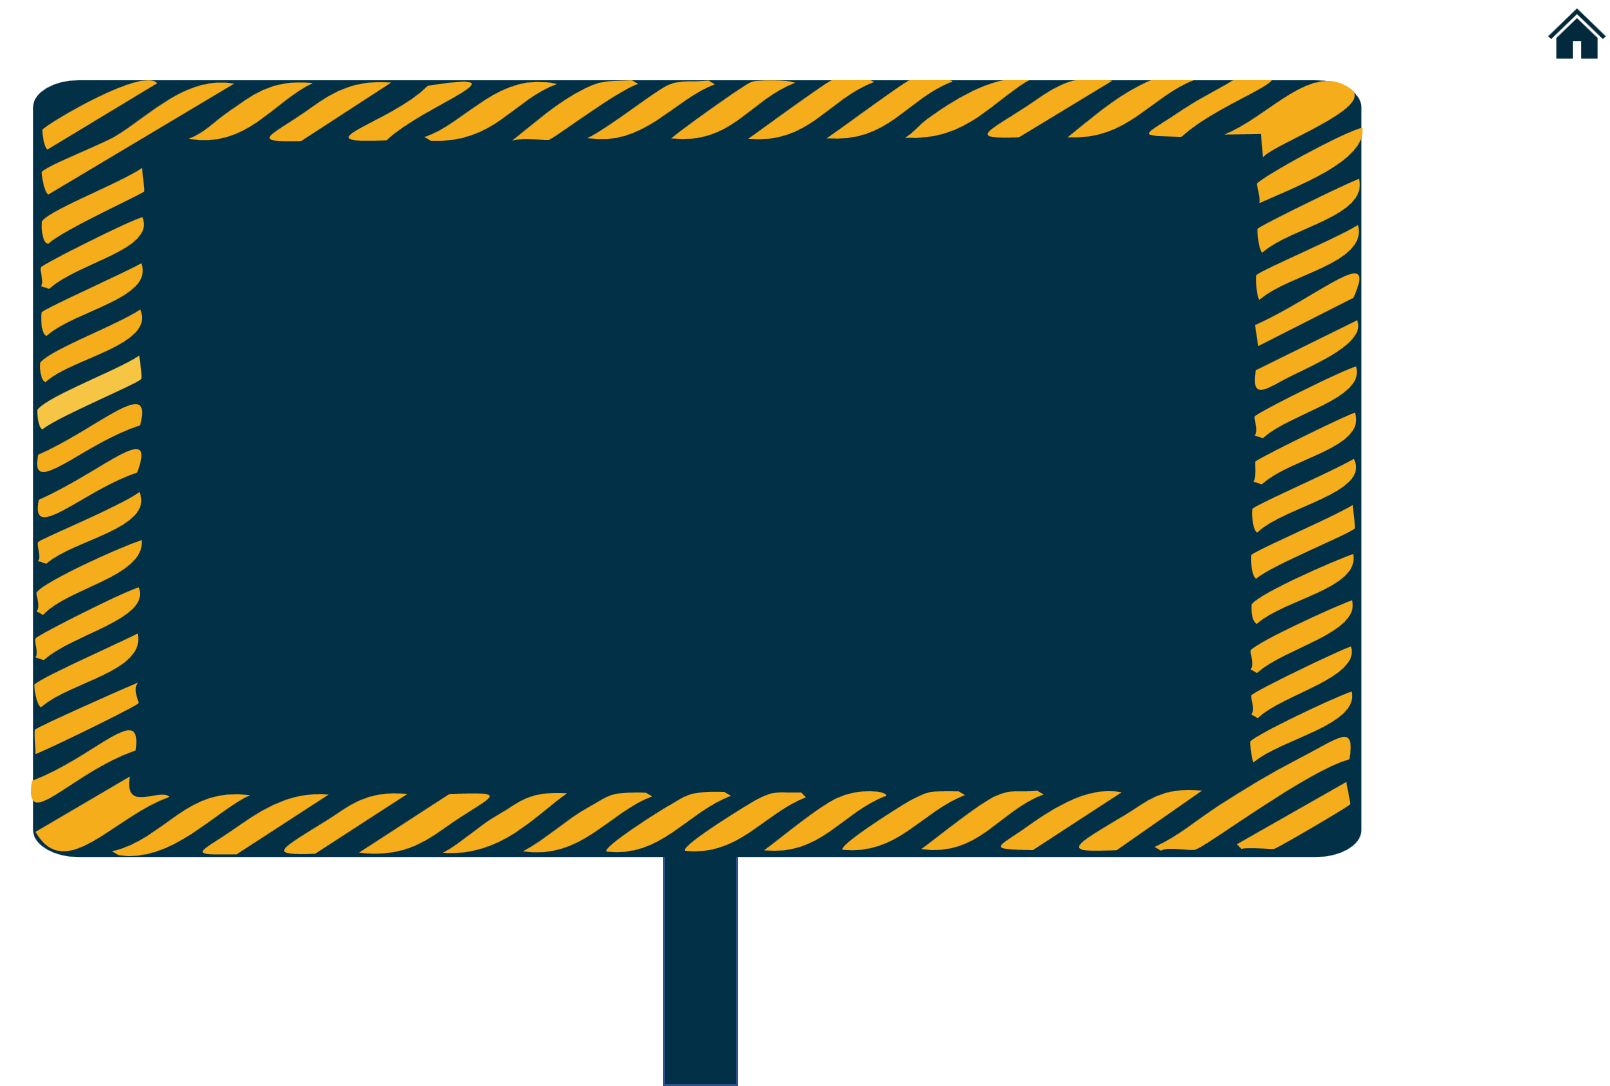
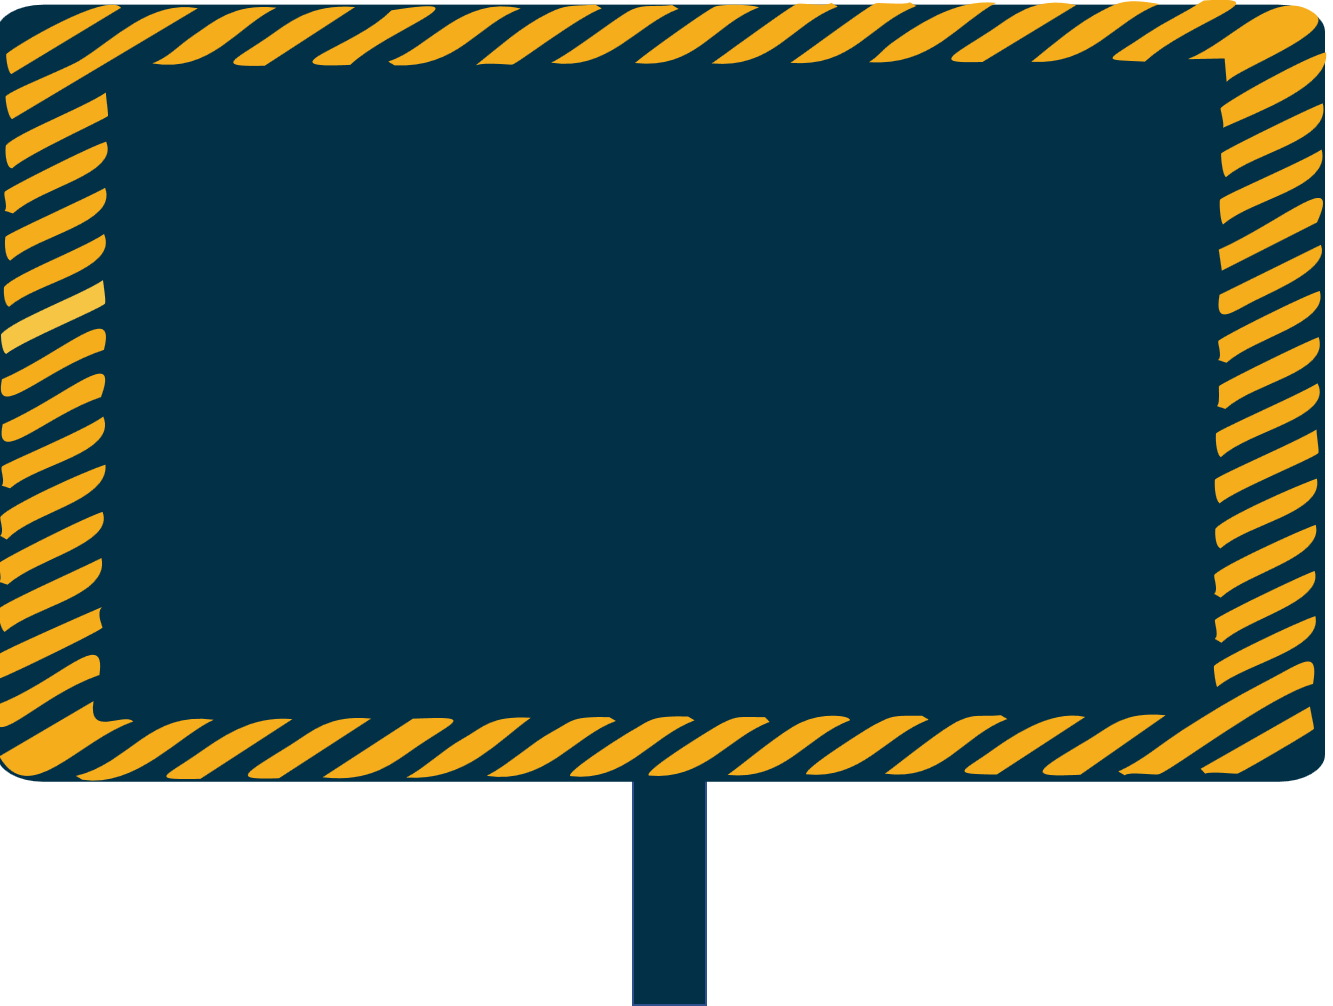
with start sign

diff --git a/src/components/StartSign.vue b/src/components/StartSign.vue
@@ -1,23 +1,33 @@
 <template>
     <div id="start-sign">
         <img class="start-sign-img" src="../../src/assets/media/StartSign.png" alt="startSign"/>
-        <div v-if="firstChosen">
+        <div class="text-container" v-if="firstChosen">
             <p>בחרת ב -</p>
-            <p style="partOfLomda">{{arrPartTitle[partNum]}}</p>
+            <p class="partOfLomda">{{arrPartTitle[partNum]}}</p>
             <p>אם תרצה לשנות את בחירתך אפשר ללחוץ על כפתור הבית</p>
-            <p style="goodWord">בהצלחה!</p>
+            <p class="goodWord">בהצלחה!</p>
         </div>
-        <div v-if="!firstChosen">
+        <div class="text-container" v-if="!firstChosen">
             <p>כל הכבוד סיימת את החלק ה{{arrFinishedPart[partNum-1]}}</p>
             <p>עכשיו נעבור לחלק ה{{ arrFinishedPart[partNum]}} של הלומדה</p>
-            <p style="partOfLomda">{{arrPartTitle[partNum]}}</p>
-            <p style="goodWord">בהצלחה!</p>
+            <p class="partOfLomda">{{arrPartTitle[partNum]}}</p>
+            <p class="goodWord">בהצלחה!</p>
         </div>
-        <div v-if="partNum === 0 && index === 1">
+        <div class="text-container" v-if="partNum === 0 && index === 1">
           <p>מטרות השיעור</p>
           <p>מטרת העל:</p>
           <p>מטרת הביניים:</p>
         </div>
+        <div v-if="partNum > 0 && firstChosen && showWarning">
+          <div class="shadow"></div>
+          <div class="warning-container">
+            <p>שימו לב!</p>
+            <p>אם לא תתחיל מתחילת הלומדה אז ציונך לא יעלה למפקדיך</p>
+          </div>
+        </div>
+       
+       
+        
     </div>
 </template>
 
@@ -30,7 +40,15 @@
               arrPartTitle: ["תחילת הלומדה", "תפעול", "תרגול"],
               arrFinishedPart: ["ראשון", "שני", "שלישי"],
               index: 0,
+              showWarning: true,
             };
+        },
+        mounted() {
+        // Set a timeout to hide the warning after 3 seconds
+          let timer = setTimeout(() => {
+            this.showWarning = false;
+            clearTimeout(timer);
+          }, 2500);
         },
         methods: {
           nextBoard(){
@@ -41,6 +59,14 @@
 </script>
 
 <style scoped>
+#start-sign {
+  width: 100vw;
+  height: 100vh;
+  display: flex;
+  justify-content: center;
+  color: white;
+  align-items: flex-end;
+}
   .goodWord {
       color: #8CD0EC;
       font-size: 1.5rem;
@@ -53,6 +79,44 @@
   }
 
   .start-sign-img {
-    width: 40rem;
+    width: 60rem;
+    height: 90%;
+    z-index: 0;
+    margin-bottom: -3rem;
+    margin-right:1rem;
+    margin-left:1rem;
+  }
+
+  .text-container {
+    position: absolute;
+    top:50%;
+    left:50%;
+    transform: translate(-50%, -50%);
+  }
+
+  .shadow {
+    top: 0rem;
+    left: 0rem;
+    position: absolute;
+    background-color: black;
+    opacity: 0.5;
+    width: 100vw;
+    height: 100vh;
+  }
+
+  .warning-container {
+    background-color: white;
+    color: red;
+    width: 30rem;
+    height: 10rem;
+    z-index: 5;
+    position: absolute;
+    top:50%;
+    left: 50%;
+    transform: translate(-50%, -50%);
+    border-radius: 1rem;
+    display: flex;
+    flex-direction: column;
+    justify-content: center;
   }
 </style>

diff --git a/src/components/OpenPage.vue b/src/components/OpenPage.vue
@@ -15,17 +15,17 @@
         <div class="start-container" v-if="!isOpenInfo">
             <img src="../../src/assets/media/Crane.png" alt="crane" class="bgCrane"/>
 
-            <HangingBoard @toNextBoard="toNextScreen" :indexYellowSign="indexYellowSign" :partNum="boardNum" :craneKind="chosenCrane" :isUp="isUp" :isDown="isDown"/>
+            <HangingBoard @toNextBoard="toNextScreen" :indexYellowSign="indexYellowSign" :showSelection="showSelection" :partNum="boardNum" :craneKind="chosenCrane" :isUp="isUp" :isDown="isDown"/>
 
-            <div class="box-container"  v-if="boardNum === 1">
+            <div class="box-container"  v-if="boardNum === 1 && !showSelection">
               <Box @click.once="toNextScreen" id="עילי" class="box btn" :class="{fadeObject: chosenCrane !== ''}" newTitle="עילי" ></Box>
               <Box @click.once="toNextScreen" id="העמסה עצמית" class="box btn" :class="{fadeObject: chosenCrane !== ''}" newTitle="העמסה עצמית"></Box>
             </div>
 
-            <div class="home-box-container"  v-if="boardNum === 3">
-              <Box @click="toStudy(fChosen, 0)" class="part-one btn" newTitle="תחילת הלמידה" id=""></Box>
-              <Box @click="toStudy(fChosen, 1)" class="part-two btn" newTitle="תפעול"></Box>
-              <Box @click="toStudy(fChosen, 2)" class="part-three btn" newTitle="תרגול"></Box>
+            <div class="home-box-container"  v-if="boardNum === 3 || showSelection">
+              <Box @click="toStudy(0)" class="part-one btn" newTitle="תחילת הלמידה" id=""></Box>
+              <Box @click="toStudy(1)" class="part-two btn" newTitle="תפעול"></Box>
+              <Box @click="toStudy(2)" class="part-three btn" newTitle="תרגול"></Box>
             </div>
             
            
@@ -41,6 +41,7 @@ import HangingBoard from './HangingBoard.vue';
 export default {
         name: "open-page",
         components: {Box, HangingBoard},
+        props: ["showSelection"],
         data() {
             return {
               infoObject: {
@@ -87,6 +88,7 @@ export default {
           },
           toStudy(part) {
             this.$emit('to-study', this.fChosen, part);
+            console.log(part);
             if(this.fChosen) {
               this.fChosen = true;
             }
@@ -202,6 +204,7 @@ export default {
   height: 27rem;
   animation: windowShow 0.2s linear forwards;
   font-size: 1.5rem;
+  z-index: 80;
 }
 
 .info-list {
@@ -224,6 +227,7 @@ export default {
   margin-left: 22rem;
   cursor: pointer;
   font-size: 1.8rem;
+  /* z-index: 30; */
 }
 
 @keyframes windowShow {

diff --git a/src/components/HangingBoard.vue b/src/components/HangingBoard.vue
@@ -1,9 +1,9 @@
 <template>
 <div id="hanging-board" :class="[!isUp ? 'toss' : 'up', isDown ? 'down' : '']">
   <img src="../../src/assets/media/hook.svg" alt="hook" class="hook"/>
-        <img src="../../src/assets/media/wire.png" alt="wire" :class="partNum !== 3 ? 'wire' : 'smallWire'"/>
+        <img src="../../src/assets/media/wire.png" alt="wire" :class="partNum !== 3 && !showSelection ? 'wire' : 'smallWire'"/>
         <div class="blue-board">
-            <p class="lomdatName" v-if="partNum === 1">לומדת עגורנים</p>
+            <p class="lomdatName" v-if="partNum === 1 && !showSelection">לומדת עגורנים</p>
             <div v-if="partNum === 2">
                 <p>הינכם עומדים ללמוד על עגרונים מסוג</p>
                 <p class="theCraneKind">{{craneKind}}</p>
@@ -13,17 +13,17 @@
                 <img @click.once="nextBoard" class="checkMarkBtn" src="../../src/assets/media/checkMarkBtn.png" alt="checkMarkBtn"/>
             </div>
         </div>
-            <div v-if="partNum === 1 || partNum === 3">
-                <img v-if="partNum === 1" src="../../src/assets/media/twoWires.png" alt="wire" class="twoWires"/>
-                <div class="mini-board">{{arrYellowSign[indexYellowSign]}}</div>
-            </div>            
+        <div v-if="partNum === 1 || partNum === 3 || showSelection">
+            <img v-if="partNum === 1 && !showSelection" src="../../src/assets/media/twoWires.png" alt="wire" class="twoWires"/>
+            <div class="mini-board">{{arrYellowSign[indexYellowSign]}}</div>
+        </div>            
     </div>
 </template>
 
 <script>
     export default {
         name: "hanging-board",
-        props: ["partNum", "craneKind", "isUp", "isDown", "indexYellowSign"],
+        props: ["partNum", "craneKind", "isUp", "isDown", "indexYellowSign", "showSelection"],
         data() {
             return {
               arrYellowSign: ["בחרו את סוג העגורן ללמידה", "בחרו בחלק הרלוונטי אלייך"],

diff --git a/src/App.vue b/src/App.vue
@@ -2,8 +2,8 @@
     <div id="app">
         <clouds-bg class="clouds-bg"></clouds-bg>
         <img class="bahadSymbol" src="../src/assets/media/bahadSymbol.png" alt="bahadSymbol"/>
-        <img v-if="part > 1" class="homeIcon" src="../src/assets/media/homeIcon.png" alt="homeIcon"/>
-        <open-page @to-study="showStartSign" v-if="part === 0"></open-page>
+        <img @click="toHomePage" v-if="part > 0" class="homeIcon" src="../src/assets/media/homeIcon.png" alt="homeIcon"/>
+        <open-page :showSelection="showSelection" @to-study="showStartSign" v-if="part === 0"></open-page>
         <start-sign :partNum="partNum" :firstChosen="firstChosen" v-if="part === 1"></start-sign>
     </div>
 
@@ -25,14 +25,19 @@ export default {
                 part: 0,
                 partNum: -1,
                 firstChosen: null,
+                showSelection: false,
             };
         },
         methods: {
             showStartSign (fChosen, studyPart) {
                 this.partNum = studyPart;
                 this.firstChosen = fChosen;
-                this.part = 1;
+                this.part++;
             },
+            toHomePage () {
+                this.part--;
+                this.showSelection = true;
+            }
         },
     };
 </script>
@@ -87,6 +92,8 @@ body {
     right: 1rem;
     top: 1rem;
     width: 2.5rem;
+    cursor: pointer; 
+    z-index:4;
 }
 
 </style>

diff --git a/src/components/CloudsBg.vue b/src/components/CloudsBg.vue
@@ -83,7 +83,7 @@
   /* Cloud 5 */
   .cloud5 {
     width: 10rem;
-    grid-column-start: 3;
+    grid-column-start: 1;
     grid-row-start: 5;
     animation: moveClouds 40s linear infinite; /* Move cloud5 */
   }
